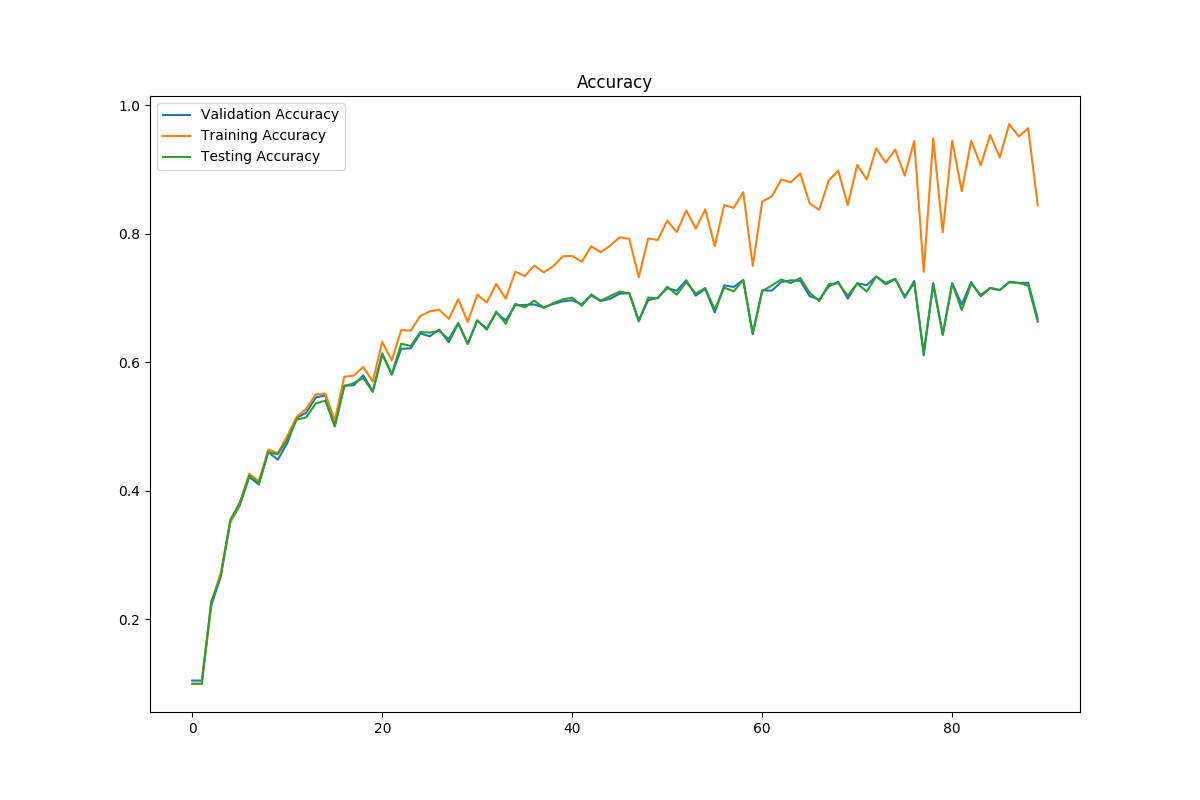
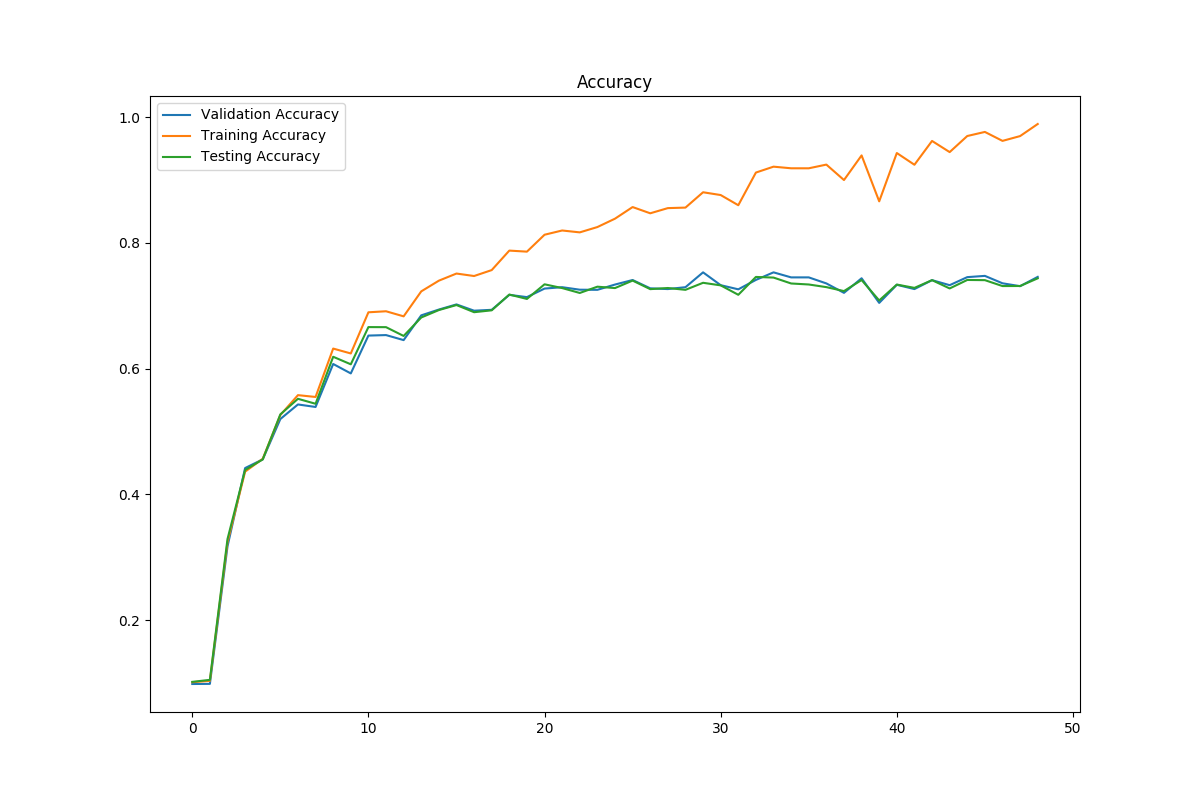
add deepCNN.py file

diff --git a/assignment3/deepCNN.py b/assignment3/deepCNN.py
@@ -1,0 +1,236 @@
+import os
+import matplotlib.pyplot as plt
+import torch
+from torch import nn
+from dataloaders import load_cifar10
+from utils import to_cuda, compute_loss_and_accuracy
+
+
+class ExampleModel(nn.Module):
+
+    def __init__(self,
+                 image_channels,
+                 num_classes):
+        """
+            Is called when model is initialized.
+            Args:
+                image_channels. Number of color channels in image (3)
+                num_classes: Number of classes we want to predict (10)
+        """
+        super().__init__()
+
+        # Define the convolutional layers
+        self.feature_extractor = nn.Sequential(
+            nn.Conv2d(
+                in_channels=image_channels,
+                out_channels=32,
+                kernel_size=3,
+                stride=1,
+                padding=1
+            ),
+            nn.MaxPool2d(kernel_size=2, stride=2),
+            nn.ReLU(),
+            nn.Conv2d(
+                in_channels=32,
+                out_channels=64,
+                kernel_size=3,
+                stride=1,
+                padding=1
+            ),
+            nn.MaxPool2d(kernel_size=2, stride=2),
+            nn.ReLU(),
+            nn.Conv2d(
+                in_channels=64,
+                out_channels=128,
+                kernel_size=3,
+                stride=1,
+                padding=1
+            ),
+            nn.MaxPool2d(kernel_size=2, stride=2),
+            nn.ReLU()
+        )
+        # The output of feature_extractor will be [batch_size, num_filters, 16, 16]
+        self.num_output_features = 128*4*4
+        # Initialize our last fully connected layer
+        # Inputs all extracted features from the convolutional layers
+        # Outputs num_classes predictions, 1 for each class.
+        # There is no need for softmax activation function, as this is
+        # included with nn.CrossEntropyLoss
+        self.classifier = nn.Sequential(
+            nn.Linear(self.num_output_features, 64),
+            nn.ReLU(),
+            nn.Linear(64, num_classes)
+        )
+
+    def forward(self, x):
+        """
+        Performs a forward pass through the model
+        Args:
+            x: Input image, shape: [batch_size, 3, 32, 32]
+        """
+
+        # Run image through convolutional layers
+        x = self.feature_extractor(x)
+        # Reshape our input to (batch_size, num_output_features)
+        x = x.view(-1, self.num_output_features)
+        # Forward pass through the fully-connected layers.
+        x = self.classifier(x)
+        return x
+
+
+class Trainer:
+
+    def __init__(self):
+        """
+        Initialize our trainer class.
+        Set hyperparameters, architecture, tracking variables etc.
+        """
+        # Define hyperparameters
+        self.epochs = 100
+        self.batch_size = 128
+        self.learning_rate = 5e-2
+        self.early_stop_count = 4
+
+        # Architecture
+
+        # Since we are doing multi-class classification, we use the CrossEntropyLoss
+        self.loss_criterion = nn.CrossEntropyLoss()
+        # Initialize the mode
+        self.model = ExampleModel(image_channels=3, num_classes=10)
+        # Transfer model to GPU VRAM, if possible.
+        self.model = to_cuda(self.model)
+
+        # Define our optimizer. SGD = Stochastich Gradient Descent
+        self.optimizer = torch.optim.SGD(self.model.parameters(),
+                                         self.learning_rate)
+
+        # Load our dataset
+        self.dataloader_train, self.dataloader_val, self.dataloader_test = load_cifar10(self.batch_size)
+
+        self.validation_check = len(self.dataloader_train) // 2
+
+        # Tracking variables
+        self.VALIDATION_LOSS = []
+        self.TEST_LOSS = []
+        self.TRAIN_LOSS = []
+        self.TRAIN_ACC = []
+        self.VALIDATION_ACC = []
+        self.TEST_ACC = []
+
+    def validation_epoch(self):
+        """
+            Computes the loss/accuracy for all three datasets.
+            Train, validation and test.
+        """
+        self.model.eval()
+
+        # Compute for training set
+        train_loss, train_acc = compute_loss_and_accuracy(
+            self.dataloader_train, self.model, self.loss_criterion
+        )
+        self.TRAIN_ACC.append(train_acc)
+        self.TRAIN_LOSS.append(train_loss)
+
+        # Compute for validation set
+        validation_loss, validation_acc = compute_loss_and_accuracy(
+            self.dataloader_val, self.model, self.loss_criterion
+        )
+        self.VALIDATION_ACC.append(validation_acc)
+        self.VALIDATION_LOSS.append(validation_loss)
+        print("Current validation loss:", validation_loss, " Accuracy:", validation_acc)
+        # Compute for testing set
+        test_loss, test_acc = compute_loss_and_accuracy(
+            self.dataloader_test, self.model, self.loss_criterion
+        )
+        self.TEST_ACC.append(test_acc)
+        self.TEST_LOSS.append(test_loss)
+
+        self.model.train()
+
+    def should_early_stop(self):
+        """
+        Checks if validation loss doesn't improve over early_stop_count epochs.
+        """
+        # Check if we have more than early_stop_count elements in our validation_loss list.
+        if len(self.VALIDATION_LOSS) < self.early_stop_count:
+            return False
+        # We only care about the last [early_stop_count] losses.
+        relevant_loss = self.VALIDATION_LOSS[-self.early_stop_count:]
+        previous_loss = relevant_loss[0]
+        for current_loss in relevant_loss[1:]:
+            # If the next loss decrease, early stopping criteria is not met.
+            if current_loss < previous_loss:
+                return False
+            previous_loss = current_loss
+        return True
+
+    def train(self):
+        """
+        Trains the model for [self.epochs] epochs.
+        """
+        # Track initial loss/accuracy
+        self.validation_epoch()
+        for epoch in range(self.epochs):
+            # Perform a full pass through all the training samples
+            for batch_it, (X_batch, Y_batch) in enumerate(self.dataloader_train):
+                # X_batch is the CIFAR10 images. Shape: [batch_size, 3, 32, 32]
+                # Y_batch is the CIFAR10 image label. Shape: [batch_size]
+                # Transfer images / labels to GPU VRAM, if possible
+                X_batch = to_cuda(X_batch)
+                Y_batch = to_cuda(Y_batch)
+
+                # Perform the forward pass
+                predictions = self.model(X_batch)
+                # Compute the cross entropy loss for the batch
+                loss = self.loss_criterion(predictions, Y_batch)
+
+                # Backpropagation
+                loss.backward()
+
+                # Gradient descent step
+                self.optimizer.step()
+                
+                # Reset all computed gradients to 0
+                self.optimizer.zero_grad()
+                 # Compute loss/accuracy for all three datasets.
+                if batch_it % self.validation_check == 0:
+                    self.validation_epoch()
+                    # Check early stopping criteria.
+                    if self.should_early_stop():
+                        print("Early stopping.")
+                        return
+
+
+if __name__ == "__main__":
+    trainer = Trainer()
+    trainer.train()
+
+    os.makedirs("plots", exist_ok=True)
+    # Save plots and show them
+    plt.figure(figsize=(12, 8))
+    plt.title("Cross Entropy Loss")
+    plt.plot(trainer.VALIDATION_LOSS, label="Validation loss")
+    plt.plot(trainer.TRAIN_LOSS, label="Training loss")
+    plt.plot(trainer.TEST_LOSS, label="Testing Loss")
+    plt.legend()
+    plt.savefig(os.path.join("plots", "final_loss.png"))
+    plt.show()
+
+    plt.figure(figsize=(12, 8))
+    plt.title("Accuracy")
+    plt.plot(trainer.VALIDATION_ACC, label="Validation Accuracy")
+    plt.plot(trainer.TRAIN_ACC, label="Training Accuracy")
+    plt.plot(trainer.TEST_ACC, label="Testing Accuracy")
+    plt.legend()
+    plt.savefig(os.path.join("plots", "final_accuracy.png"))
+    plt.show()
+
+    print("Final test accuracy:", trainer.TEST_ACC[-trainer.early_stop_count])
+    print("Final validation accuracy:", trainer.VALIDATION_ACC[-trainer.early_stop_count])
+    print("Final training accuracy:", trainer.TRAIN_ACC[-trainer.early_stop_count])
+
+    print("Final test loss:", trainer.TEST_LOSS[-trainer.early_stop_count])
+    print("Final validation loss:", trainer.VALIDATION_LOSS[-trainer.early_stop_count])
+    print("Final training loss:", trainer.TRAIN_LOSS[-trainer.early_stop_count])
+
+
